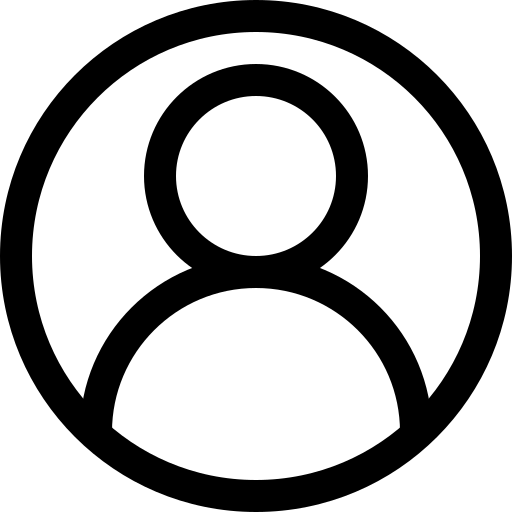
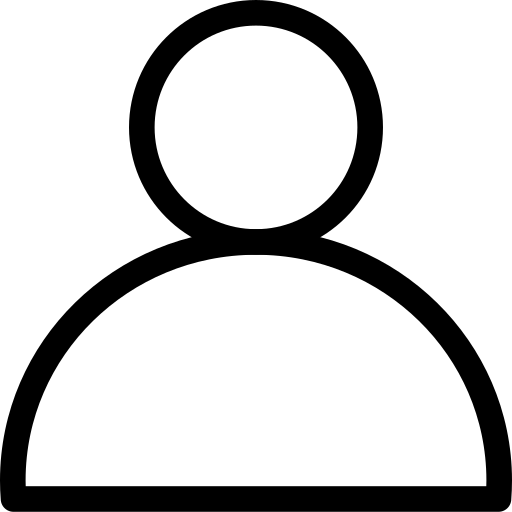
Logout working. But NEXT step fix isAuthWindowOpened

diff --git a/src/components/Header/Header.jsx b/src/components/Header/Header.jsx
@@ -1,12 +1,24 @@
 import React from 'react';
 import styles from './Header.module.scss';
-import search_icon from '../../assets/images/auth_icon.png';
+import login_icon from '../../assets/images/auth_icon.png';
+import logout_icon from '../../assets/images/logout_icon.png';
 import { Link } from 'react-router-dom';
 import Authorization from '../Authorization/Authorization.tsx';
 import { useState } from 'react';
+import { useDispatch, useSelector } from 'react-redux';
+import { logout } from '../../app/features/AuthSlice';
 
 const Header = () => {
+  const dispatch = useDispatch();
+  const isAuth = useSelector((state) => state.authorization.isAuth);
   const [authWindowOpened, setAuthWindowOpened] = useState(false);
+
+  const handleLogout = () => {
+    alert('Logout..');
+    setAuthWindowOpened(!authWindowOpened);
+    dispatch(logout());
+  };
+
   return (
     <>
       {authWindowOpened && <Authorization />}
@@ -15,12 +27,16 @@ const Header = () => {
         <Link to="/" className={styles.header}>
           {'<Codebar />'}
         </Link>
-        <img
-          onClick={() => setAuthWindowOpened(!authWindowOpened)}
-          className={styles.account_icon}
-          src={search_icon}
-          alt=""
-        />
+
+        {isAuth ? (
+          <img onClick={() => handleLogout()} className={styles.account_icon} src={logout_icon} />
+        ) : (
+          <img
+            onClick={() => setAuthWindowOpened(!authWindowOpened)}
+            className={styles.account_icon}
+            src={login_icon}
+          />
+        )}
       </div>
     </>
   );
